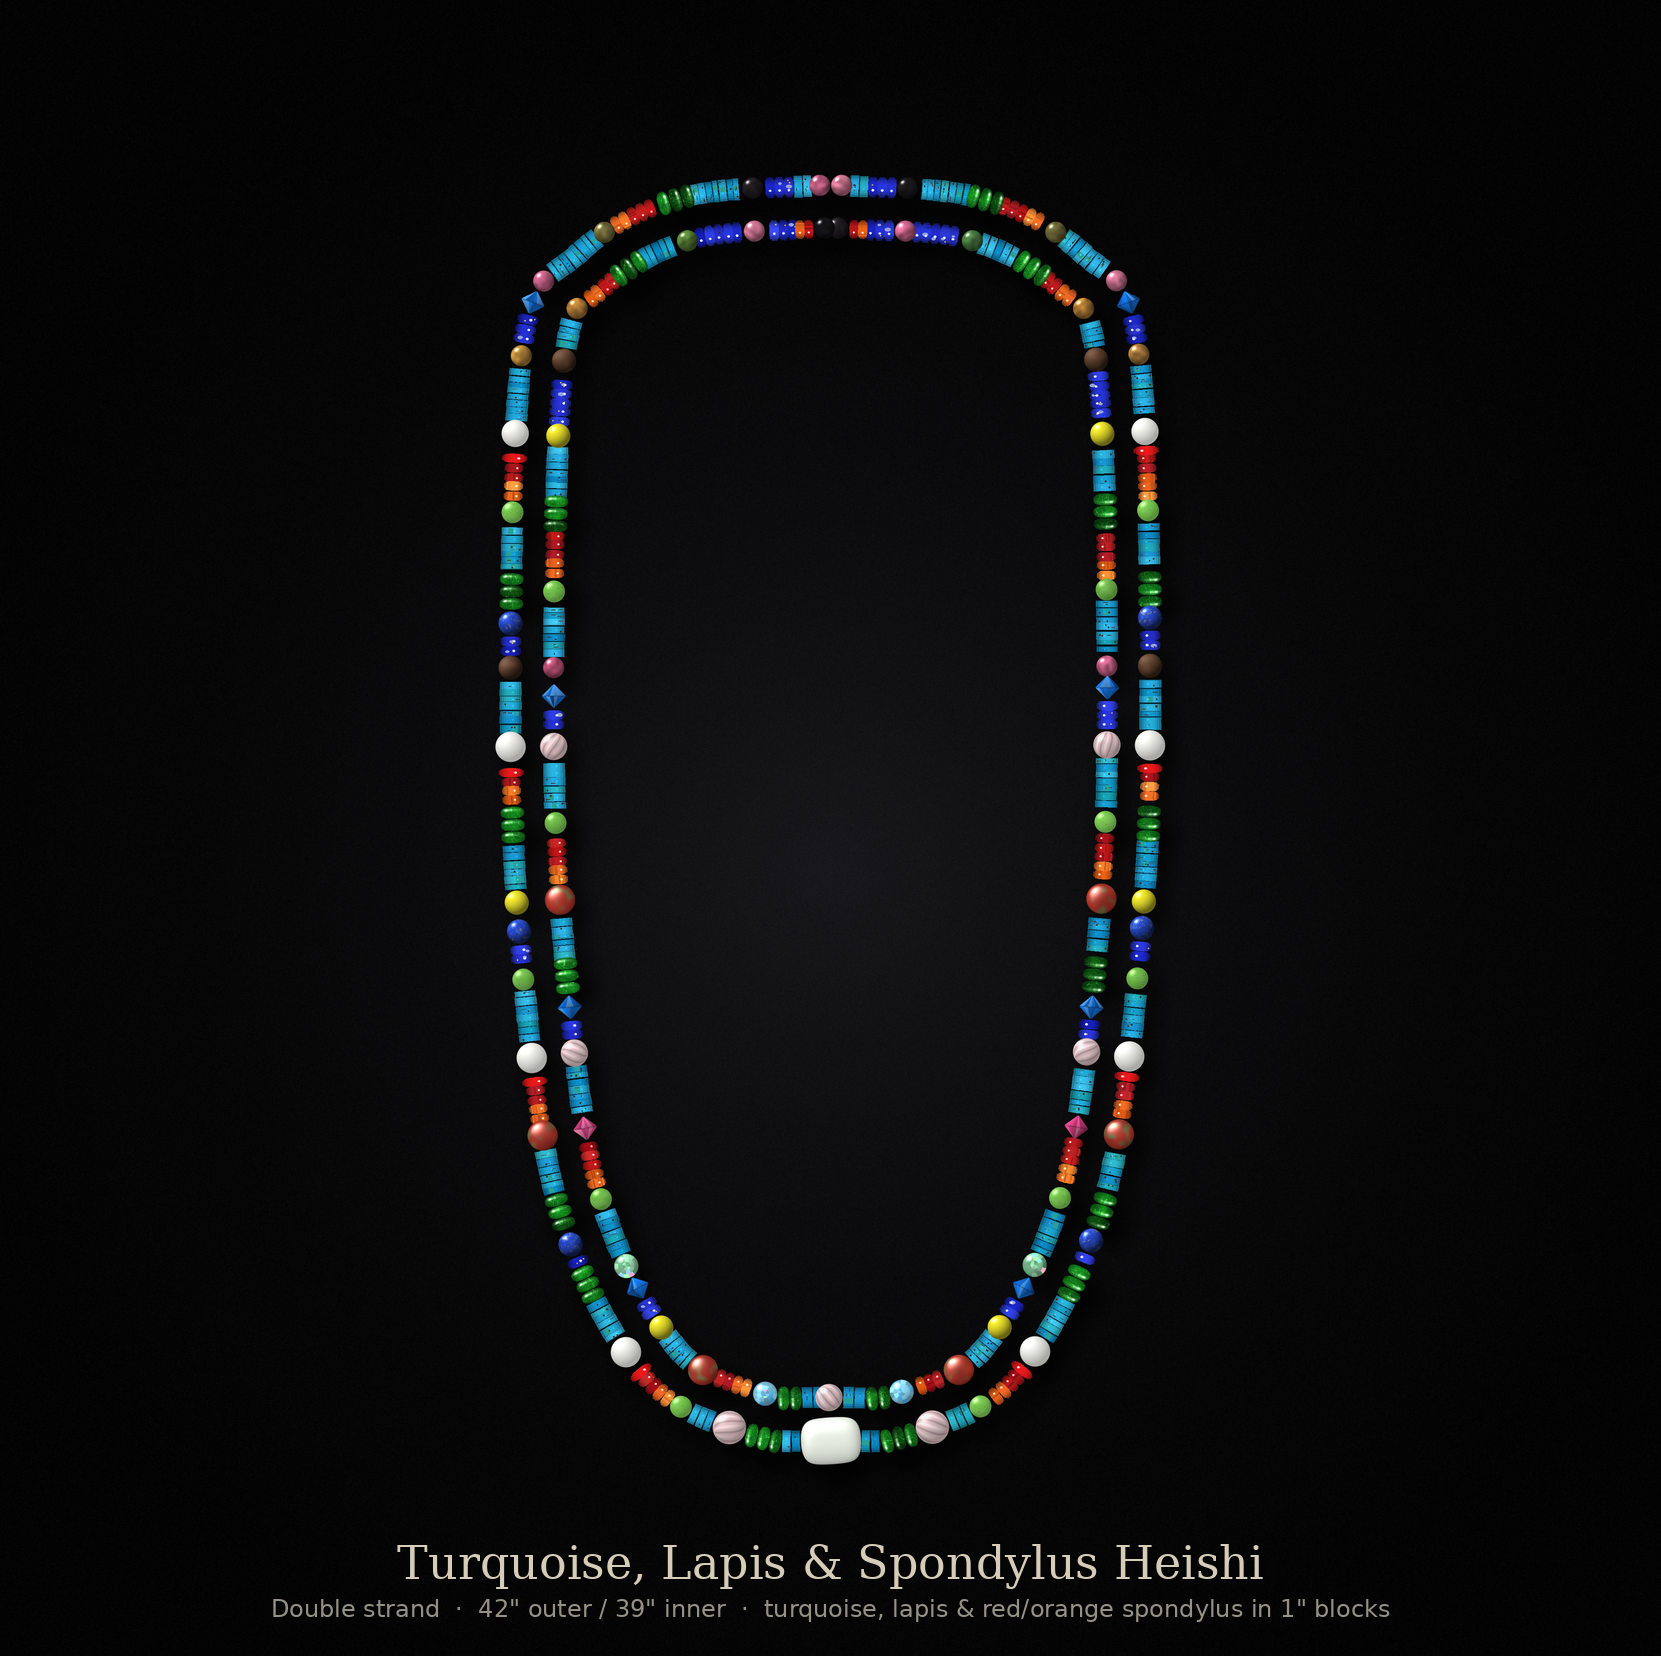
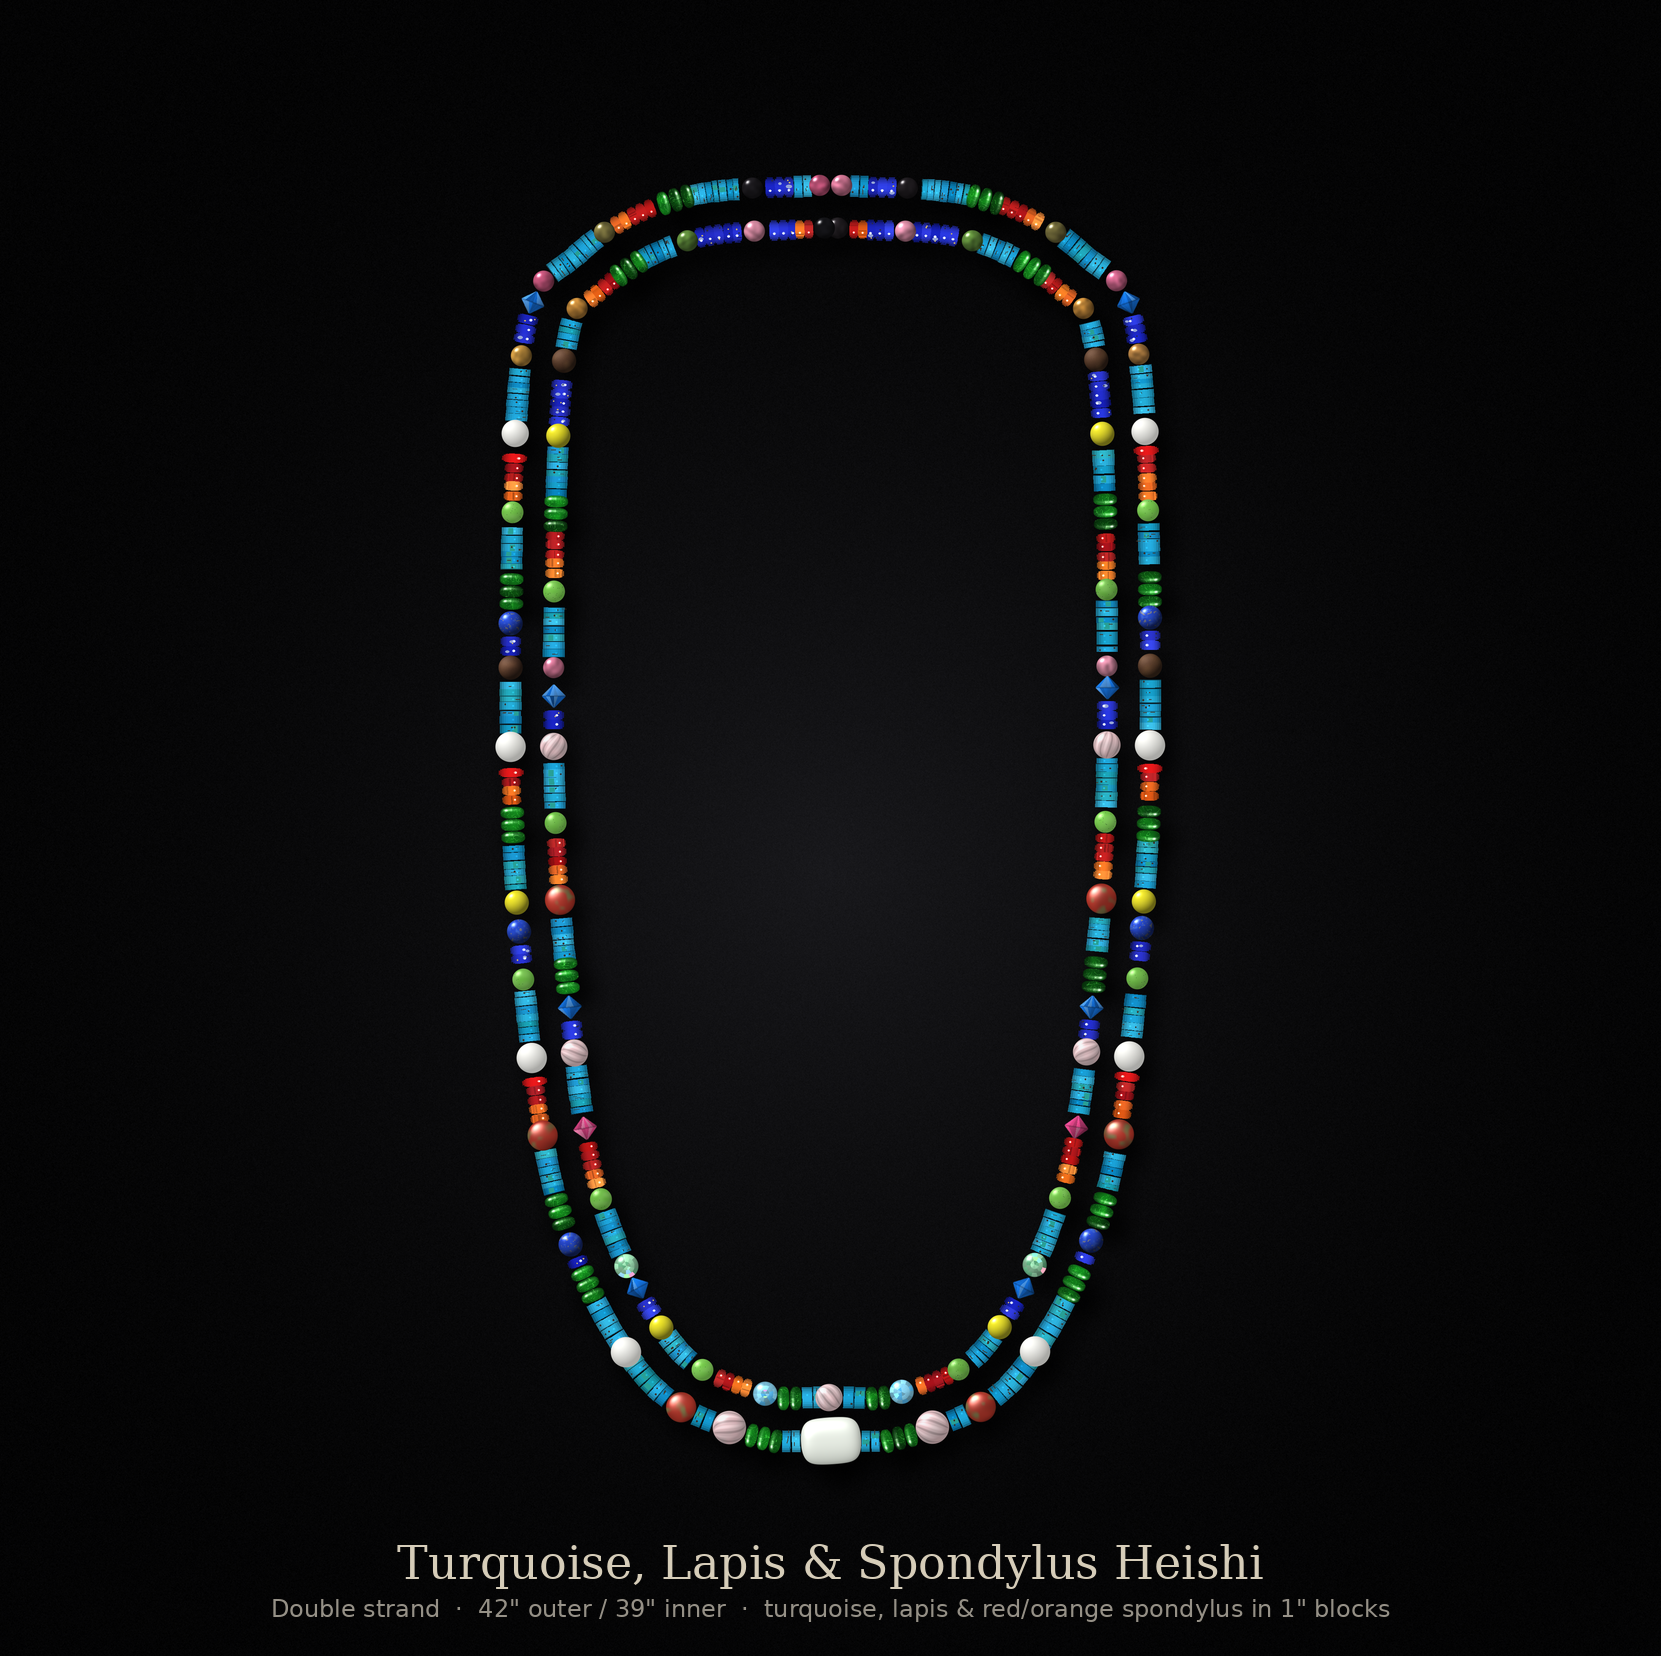
Version 2: swap bottom apple jasper (now lower strand) and green jade (now inner)
Claude-Session: https://claude.ai/code/session_014be1vF4Rdf8sv9Si75Gudv

diff --git a/necklace/render_necklace.py b/necklace/render_necklace.py
@@ -409,6 +409,12 @@ if V2:
         if _y < 130:                           # the ones up behind the neck
             # inner strand: these moved down to the bottom; tan tourmaline here. outer: dark tan-green
             barrels[st][k] = barrels[st][k][:5] + ("tour_tan" if st == 1 else "tour_olive",)
+    # bottom swap: the inner-strand apple jasper nearest the bottom becomes green jade (its partner moves out)
+    for _side in (True, False):
+        _ks = sorted([k for k, b in enumerate(barrels[1]) if b[5] == "applejasper" and (b[0] < 0) == _side],
+                     key=lambda k: -_utop(1, barrels[1][k][4]))
+        if _ks:
+            barrels[1][_ks[0]] = barrels[1][_ks[0]][:5] + ("gjade7",)
 
 # 8 x 3 mm spondylus rondelles flank every white barrel: red on one side, orange on the other
 RON_D, RON_T = 8.0, 3.0
@@ -431,7 +437,7 @@ ROSE_D = 9.0
 PER_D, PER_L = 8.0, 4.0              # chrome diopside rondelle: 8 mm across, 4 mm along the strand
 def tsize(t):
     k = t[5] if len(t) > 5 else "tour"
-    return {"rose": ROSE_D, "rose11": 11.0, "tour_ybright": 7.0, "wjade": (10.5 if V3 else 19.7), "conch12": 12.0, "lapis8": 8.0, "conch8": 8.0, "mook8": 8.0, "abgreen8": 8.0, "yellow8": 8.0, "bicone8": 8.0, "gjade7t": 7.3, "bicone_lime": 8.0, "peridot": PER_L, "peridot2": 2 * PER_L, "peridot3": 3 * PER_L}.get(k, TOUR_D)
+    return {"rose": ROSE_D, "rose11": 11.0, "tour_ybright": 7.0, "wjade": (10.5 if V3 else 19.7), "conch12": 12.0, "lapis8": 8.0, "conch8": 8.0, "mook8": 8.0, "abgreen8": 8.0, "yellow8": 8.0, "bicone8": 8.0, "gjade7t": 7.3, "ajas_t": 10.0, "bicone_lime": 8.0, "peridot": PER_L, "peridot2": 2 * PER_L, "peridot3": 3 * PER_L}.get(k, TOUR_D)
 tourm = {0: [], 1: []}
 for n in range(0, 42):
     s_o = (n + 0.5) * INCH - HIDDEN_OUT / 2
@@ -656,7 +662,8 @@ if V2:
                     else:
                         tourm[0].append((outer[_j][0], outer[_j][1], tang[_j][0], tang[_j][1], _p, _kind))
                 if not V3:
-                    tourm[0] = [t[:5] + ("gjade7t",) if (t[5] == "bicone8" and abs(t[4] - _cp) < 70) else t for t in tourm[0]]
+                    tourm[0] = [t[:5] + ("ajas_t",) if (t[5] == "bicone8" and abs(t[4] - _cp) < 70) else t for t in tourm[0]]
+
                 # close the gap between the blue glass and the remaining heishi with evenly spaced turquoise
                 _start = _e + _gap + 12.1 + _gw + 0.1
                 _nxt = sorted(_sg * (t[4] - _cp) - tsize(t) / 2 for t in tourm[0] if _sg * (t[4] - _cp) > _reach)
@@ -680,6 +687,34 @@ if V2:
             _j = min(int(np.searchsorted(s_out, _p)), len(outer) - 1)
             beads_out.append(((outer[_j][0], outer[_j][1], tang[_j][0], tang[_j][1], _j, _p), 0))
             SPLIT[(0, round(_p, 4))] = 3          # orange spondylus each side of the bottom-centre bead
+
+if V2 and not V3:
+    # 10 mm apple jasper needs more room than the bicone: re-space the turquoise each side evenly
+    for _t in [t for t in tourm[0] if t[5] == "ajas_t"]:
+        for _sg2 in (-1, 1):
+            _items = [(_sg2 * (b[0][5] - _t[4]), "d", b) for b in beads_out if 0 < _sg2 * (b[0][5] - _t[4]) < 60]
+            _items += [(_sg2 * (u[4] - _t[4]), "t", u) for u in tourm[0] if u is not _t and 0 < _sg2 * (u[4] - _t[4]) < 60]
+            _items.sort(key=lambda z: z[0])
+            _run = []
+            for _d, _k, _o in _items:
+                if _k == "t":
+                    _stop = _d - tsize(_o) / 2
+                    break
+                _run.append(_o)
+            else:
+                continue
+            if not _run:
+                continue
+            for _o in _run:
+                beads_out.remove(_o)
+            _span = _stop - 5.0
+            _nf = max(1, int(round(_span / 3.0)))
+            for _q in range(_nf):
+                _p = _t[4] + _sg2 * (5.0 + _span / _nf * (_q + 0.5))
+                _j = min(int(np.searchsorted(s_out, _p)), len(outer) - 1)
+                beads_out.append(((outer[_j][0], outer[_j][1], tang[_j][0], tang[_j][1], _j, _p), 0))
+                SPLIT[(0, round(_p, 4))] = 0
+                TURQ_T[(0, round(_p, 4))] = _span / _nf
 
 # 8 mm round denim lapis at the head (upper end, as worn) of lapis segments: 7 per side = 14
 if V2:
@@ -1786,6 +1821,9 @@ for st in (0, 1):
             spr = mook_sprite(tseed)
             px, py = P(x, y)
             layer.paste(spr, (int(px - spr.width / 2), int(py - spr.height / 2)), spr)
+            continue
+        if len(t) > 5 and t[5] == "ajas_t":
+            draw_barrel(layer, x, y, t[2], t[3], tseed, "applejasper")   # apple jasper moved out to the lower strand
             continue
         if len(t) > 5 and t[5] == "gjade7t":
             spr = green_jade_sprite(tseed)          # green jade moved down from the top
